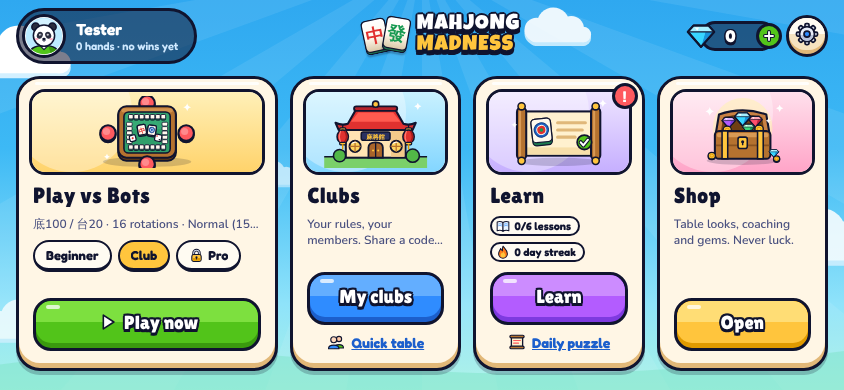
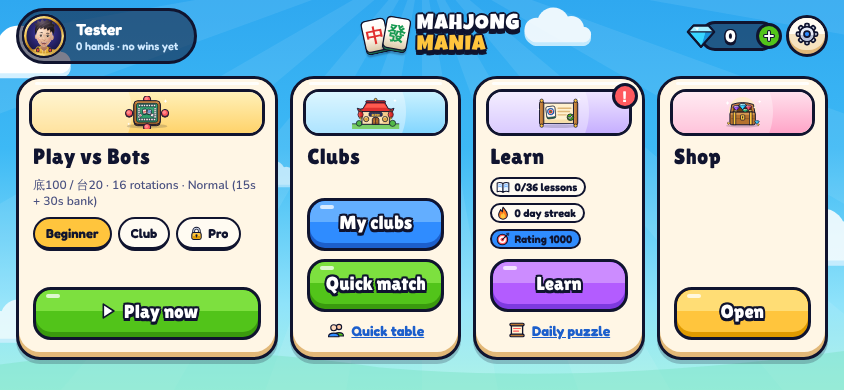
Note in the assessment what is fixed since it, and replace the stale Home screenshot
The dated note lists the fixes made after the third assessment, with the
assessor's own attacks re-run on the result. The scores are not changed.
The Home screenshot in docs still showed the old name.

Claude-Session: https://claude.ai/code/session_01UKgEJyrHUcs2SQqTb4vSxP

diff --git a/docs/ASSESSMENT.md b/docs/ASSESSMENT.md
@@ -6,6 +6,12 @@ Rubric (unchanged): 0-10 against the best shipped product in each dimension (明
 
 **This pass used a lighter method than the first two, and its scores should be read with that in mind.** The earlier passes gave every dimension its own assessor and a blind challenger and took the mean; challengers scored 0.4 lower than assessors on average. This pass used four independent assessors, one per group of dimensions, who worked from the evidence already on disk (the gate log, 78 re-run probes, 128 review findings with their final states) plus 196 checks of their own, and no challengers. The scores below are therefore assessor scores. Compared like for like with the earlier passes they are probably about 0.2 high. Section 9 has the details and what was not checked.
 
+> **Update, 16 November 2026: fixed since this assessment (not rescored).** Each fix has a regression test that fails on the old code; every gate passed on the result, including 2,011 tests, the server suite on Postgres, the smoke test on the production bundle and both end-to-end runs.
+> - **A dropped player keeps their clock** (sections 4.2 and 5, fairness and multiplayer). The table plays a disconnected seat only when its turn clock and bank have run out (`packages/net/src/host.ts`); a seat that left on purpose is still played at once. The phone judges every table move made across a dropped link on its own clock: too short fails the hand, long enough is amber with the reason (`packages/net/src/client.ts`). The assessor's attacks, re-run on the result: a turn played behind a sub-second drop failed in 156 of 156 hands that had one (was green in 40 of 40); the early timeout after a blip failed in 60 of 60 (was green in 58 of 58); the rest of a match played in a 2-second drop now fails every missed hand. Honest runs stay green, and a player whose socket closes at the start of their turn is back with the turn still theirs. Two limits remain, stated in `docs/FAIRNESS.md`: a server that holds back the frame showing your turn on a live link is not caught, and a move credited to you in a hand your phone never saw cannot be told from play on another device.
+> - **Home** asks before its resume card abandons a saved table (the button now reads "Abandon table"), and a damaged saved-table record is discarded on load instead of locking the app on the error screen, which also gained a way to clear it.
+> - **The automatic deploy and the web preview** follow the repository's default branch instead of a `main` branch that does not exist.
+> - **Smaller items:** a table whose clock was changed by hand is called Custom, not by the speed's name; the web page's language follows the UI; the zh-TW review notes use the app's 快速配對; the release workflows pin the Expo action and the EAS CLI; the stale Home screenshot is replaced.
+
 ## 1. Scorecard
 
 | Dimension (weight) | 4 Nov | 6 Nov | **13 Nov** | Why, in one line | Top gap |
